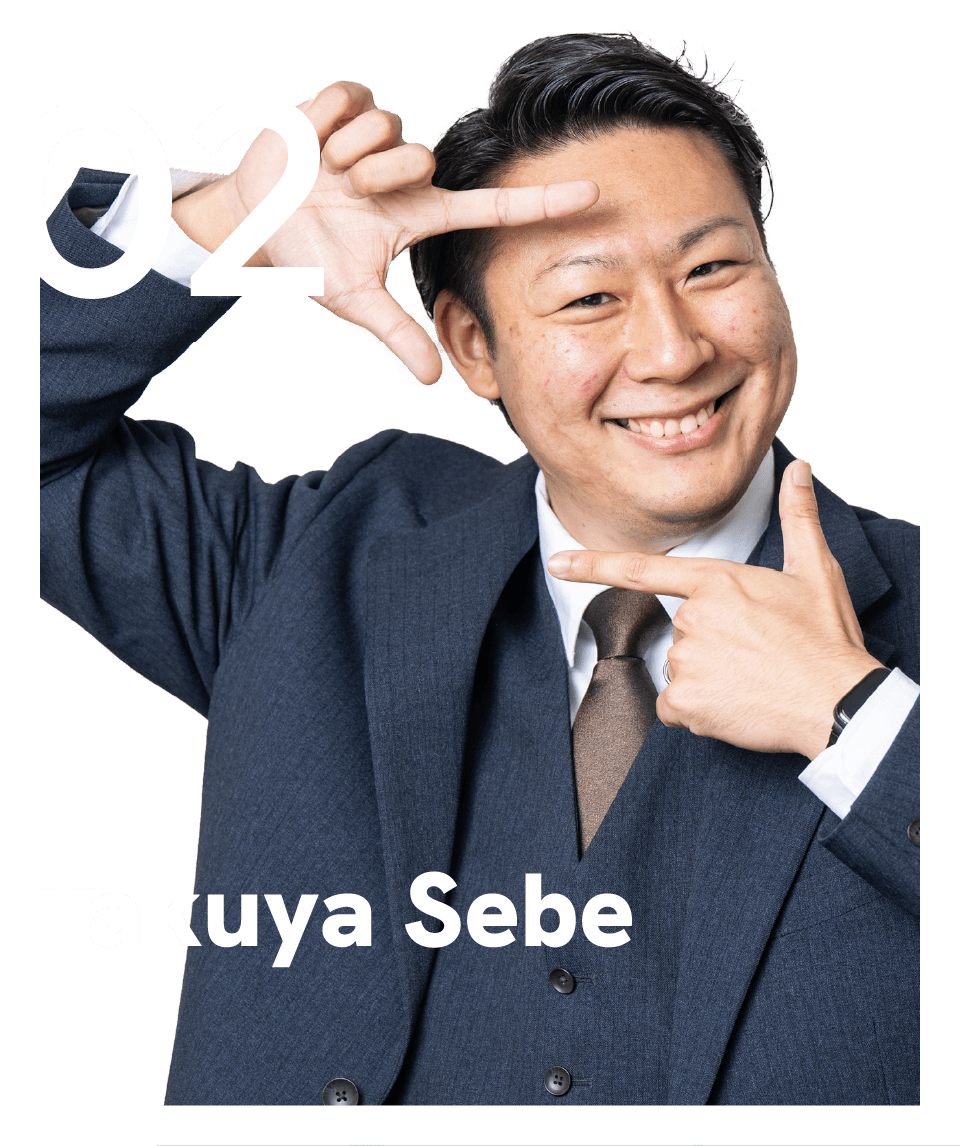
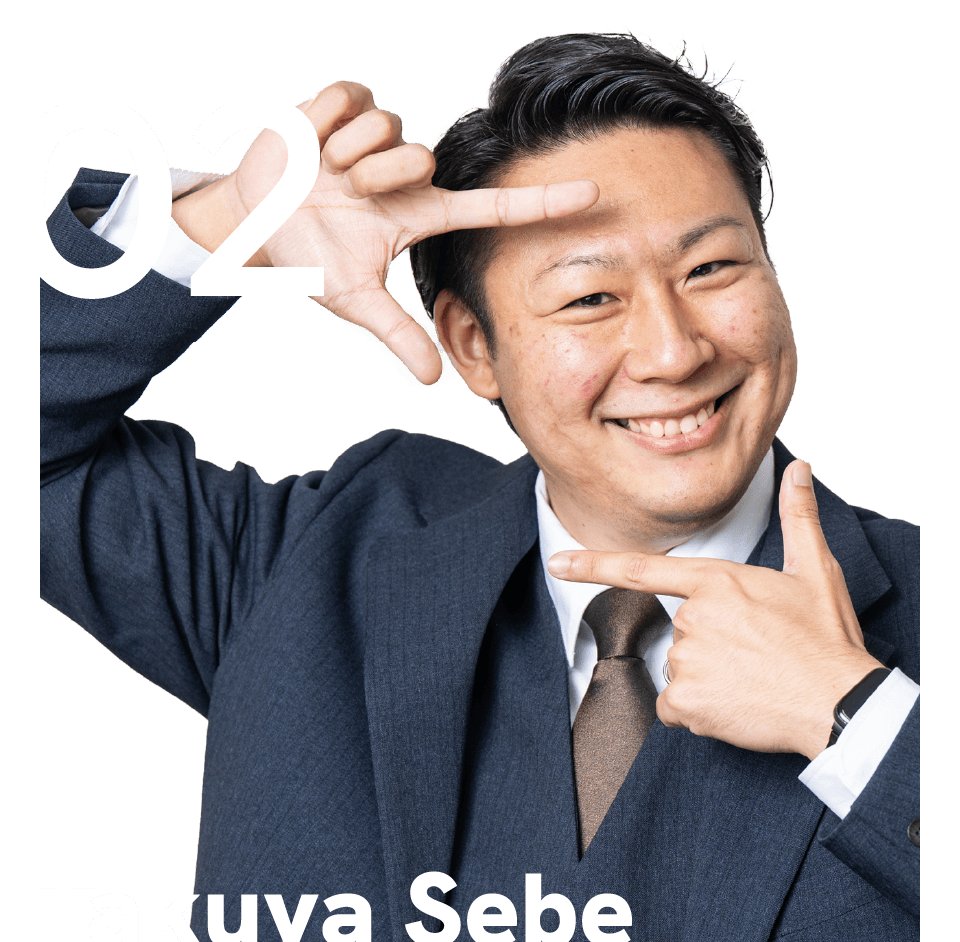
no message

diff --git a/src/scss/parts/_page-header.scss b/src/scss/parts/_page-header.scss
@@ -1,139 +1,100 @@
 @use '../variables' as *;
 
 .page-header {
-    background-color: $color-primary;
-    padding: 120px 20px 20px 20px; // Top padding to clear fixed header
-    min-height: 400px;
-    display: flex;
-    align-items: flex-end; // Bottom align the card if we want, or maximize it
-
-    &__inner {
-        background-color: #fff;
-        width: 100%;
-<<<<<<< HEAD
-        max-width: 1000px; // Adjust as needed
-=======
->>>>>>> develop
-        margin: 0 auto;
-        border-radius: 40px;
-        padding: 60px;
-        position: relative;
-<<<<<<< HEAD
-        min-height: 300px; // Ensure some height
+        background-color: $color-primary;
+        padding: 120px 20px 20px 20px; // Top padding to clear fixed header
+        min-height: 400px;
         display: flex;
-        flex-direction: column;
-        justify-content: center;
-=======
-        min-height: 400px; // Ensure some height
-        display: flex;
-        flex-direction: column;
-        justify-content: flex-start;
->>>>>>> develop
+        align-items: flex-end; // Bottom align the card if we want, or maximize it
 
-        @media screen and (max-width: $breakpoint-mobile) {
-            padding: 30px;
-            border-radius: 20px;
-            min-height: 250px;
-        }
-    }
+        &__inner {
+                background-color: #fff;
+                width: 100%;
 
-    &__label {
-        font-family: $font-family-base;
-        font-weight: bold;
-<<<<<<< HEAD
-        font-size: 14px;
-        color: #666;
-        letter-spacing: 0.05em;
-        margin-bottom: 20px;
-=======
-        font-size: 22px;
-        color: #333;
-        letter-spacing: 0.05em;
-        margin-bottom: 0px;
->>>>>>> develop
-        text-transform: uppercase;
+                margin: 0 auto;
+                border-radius: 40px;
+                padding: 60px;
+                position: relative;
+                min-height: 400px; // Ensure some height
+                display: flex;
+                flex-direction: column;
+                justify-content: flex-start;
 
-        &::before {
-            content: '_';
-            margin-right: 2px;
-        }
-    }
-
-    &__title {
-        font-size: 40px;
-        font-weight: 700;
-        line-height: 1.5;
-        margin-bottom: 40px;
-<<<<<<< HEAD
-=======
-        margin-top: 10px;
->>>>>>> develop
-        position: relative;
-        z-index: 2;
-
-        .u-highlight {
-            background: #f9e79f; // Zabuton style (solid color)
-            display: inline; // Changed from inline-block to inline for multi-line support
-<<<<<<< HEAD
-            padding: 5px 10px;
-            line-height: 1.6; // Increase line-height slightly to separate lines
-            box-decoration-break: clone;
-            -webkit-box-decoration-break: clone;
-=======
-            padding: 10px 10px;
-            line-height: 2; // Increase line-height slightly to separate lines
-            box-decoration-break: clone;
-            -webkit-box-decoration-break: clone;
-
-            &--green {
-                background: #a6e5a4; // Green highlight for Service page
-            }
-
-            &--blue {
-                background: #a9e0db; // Blue highlight for Company page
-            }
-
-            &--pink {
-                background: #FFccd5; // Pink highlight for Member page
-            }
->>>>>>> develop
+                @media screen and (max-width: $breakpoint-mobile) {
+                        padding: 30px;
+                        border-radius: 20px;
+                        min-height: 250px;
+                }
         }
 
-        @media screen and (max-width: $breakpoint-mobile) {
-            font-size: 24px;
+        &__label {
+                font-family: $font-family-base;
+                font-weight: bold;
+                font-size: 22px;
+                color: #333;
+                letter-spacing: 0.05em;
+                margin-bottom: 0px;
+                text-transform: uppercase;
+
+                &::before {
+                        content: '_';
+                        margin-right: 2px;
+                }
         }
-    }
 
-    &__en-title {
-        position: absolute;
-<<<<<<< HEAD
-        bottom: -23px;
-        right: -10px;
-        font-family: $font-family-base; // Or a condensed font if needed
-        font-weight: 900;
-=======
-        bottom: -26px; // Overlap slightly or inside
-        right: -10px;
-        font-family: $font-family-base; // Or a condensed font if needed
-        font-weight: 700;
->>>>>>> develop
-        font-size: 180px;
-        color: $color-primary; // Orange text
-        line-height: 1;
-        opacity: 1;
-        z-index: 1;
-        text-transform: uppercase;
+        &__title {
+                font-size: 40px;
+                font-weight: 700;
+                line-height: 1.5;
+                margin-bottom: 40px;
+                margin-top: 10px;
+                position: relative;
+                z-index: 2;
 
-<<<<<<< HEAD
-        // Make it look like the reference (big, maybe outlined or filled)
-        // Reference looks filled.
+                .u-highlight {
+                        background: #f9e79f; // Zabuton style (solid color)
+                        display: inline; // Changed from inline-block to inline for multi-line support
+                        padding: 10px 10px;
+                        line-height: 2; // Increase line-height slightly to separate lines
+                        box-decoration-break: clone;
+                        -webkit-box-decoration-break: clone;
 
-=======
->>>>>>> develop
-        @media screen and (max-width: $breakpoint-mobile) {
-            font-size: 50px;
-            right: 20px;
-            bottom: 10px;
+                        &--green {
+                                background: #a6e5a4; // Green highlight for Service page
+                        }
+
+                        &--blue {
+                                background: #a9e0db; // Blue highlight for Company page
+                        }
+
+                        &--pink {
+                                background: #FFccd5; // Pink highlight for Member page
+                        }
+                }
+
+                @media screen and (max-width: $breakpoint-mobile) {
+                        font-size: 24px;
+                }
         }
-    }
+
+        &__en-title {
+                position: absolute;
+                bottom: -26px; // Overlap slightly or inside
+                right: -10px;
+                font-family: $font-family-base; // Or a condensed font if needed
+                font-weight: 700;
+                font-size: 180px;
+                color: $color-primary; // Orange text
+                line-height: 1;
+                opacity: 1;
+                z-index: 1;
+                text-transform: uppercase;
+
+
+                @media screen and (max-width: $breakpoint-mobile) {
+                        font-size: 50px;
+                        right: 20px;
+                        bottom: 10px;
+                }
+        }
 }

diff --git a/src/scss/parts/_page-member.scss b/src/scss/parts/_page-member.scss
@@ -118,7 +118,7 @@
         }
 
         &:hover .member-card__btn {
-            background-color: darken(#ffccd5, 10%);
+            background-color: #ff99aa; // darken(#ffccd5, 10%) equivalent
         }
     }
 }

diff --git a/functions.php b/functions.php
@@ -103,11 +103,7 @@ function langis_create_pages()
         ['slug' => 'service', 'title' => 'Service'],
         ['slug' => 'company', 'title' => 'Company'],
         ['slug' => 'gallery', 'title' => 'Gallery'],
-        ['slug' => 'contact', 'title' => 'Contact'],
-<<<<<<< HEAD
-=======
         ['slug' => 'member', 'title' => 'Member'], // Parent
->>>>>>> develop
     ];
 
     foreach ($pages as $page) {
@@ -118,14 +114,7 @@ function langis_create_pages()
                 'post_name' => $page['slug'],
                 'post_status' => 'publish',
                 'post_type' => 'page',
-<<<<<<< HEAD
-                'post_content' => '', // テンプレート側で表示するので空でOK
-            ]);
-        }
-    }
-}
-add_action('init', 'langis_create_pages');
-=======
+
                 'post_content' => '',
             ]);
         }
@@ -193,4 +182,4 @@ add_filter('template_include', 'langis_member_template');
 
 // Create Dummy Member Posts -> DISABLED (No longer needed)
 // function langis_create_member_posts() ...
->>>>>>> develop
+
